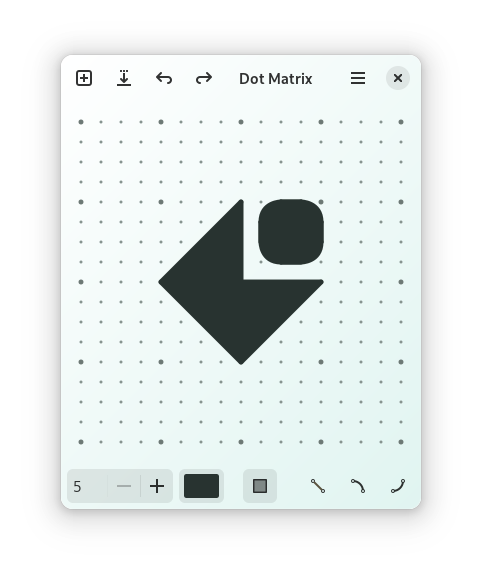
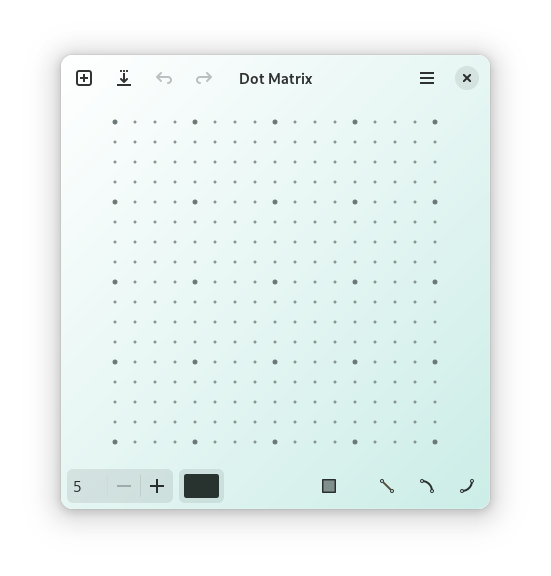
* - Solo 2.0 UI

diff --git a/data/style.css b/data/style.css
@@ -9,7 +9,7 @@
 }
 
 .main-box {
-  background: linear-gradient(135deg, @window_bg_color, mix(@window_bg_color, @accent_bg_color, 0.12));
+  background: linear-gradient(135deg, @window_bg_color, mix(@window_bg_color, @accent_bg_color, 0.2));
 }
 
 .main-box headerbar {
